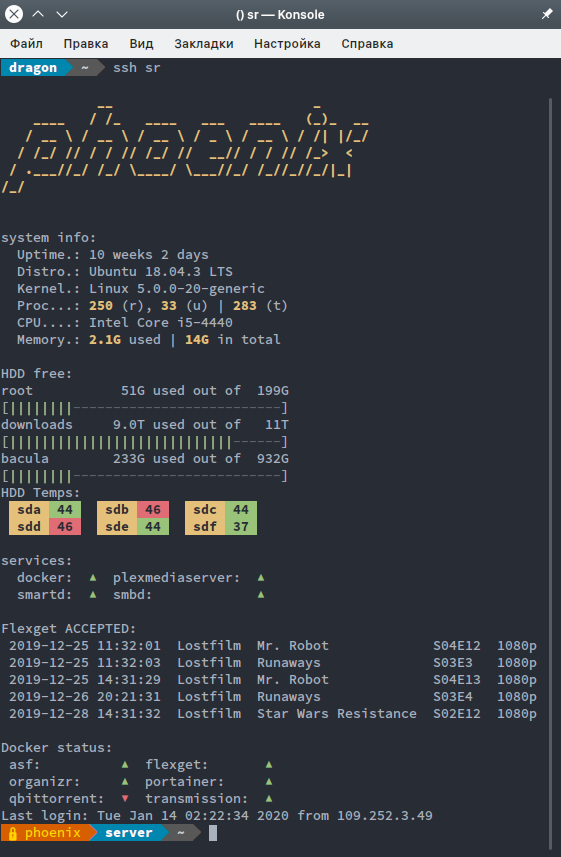
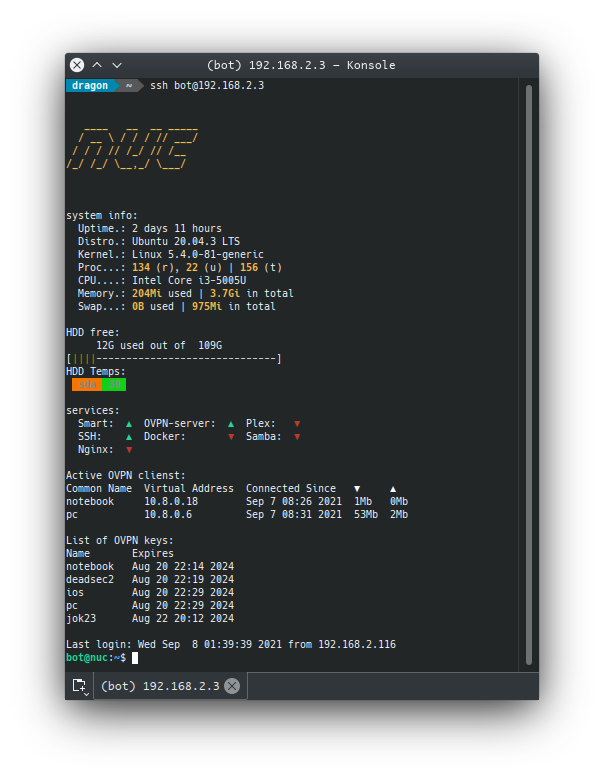
added new files

diff --git a/README.md b/README.md
@@ -15,6 +15,9 @@ It just Messange Of The Day for linux ssh and terminal.
    - Needed for working module 60-docker
  * lxd
    - Needed for working module 60-lxd
+ * ssed
+   - Needed for working module 70-vpn-active
+
 
 # Screenshot
 ![screen](screenshot/screen.png)
@@ -30,3 +33,9 @@ sudo chown root:root *
 sudo cp * /etc/update-motd.d/
 sudo update-motd
 ```
+
+# Update 08.09.2021
+* Added module for track Openvpn keys (i use easyrsa for generating keys) and active connections 
+
+#P.S.
+*In folder with openvpn config (`/etc/openvpn/`) locating directory with Certifiration Autority. Some files reading directly from CA (`/etc/openvpn/ca/pki/`)
